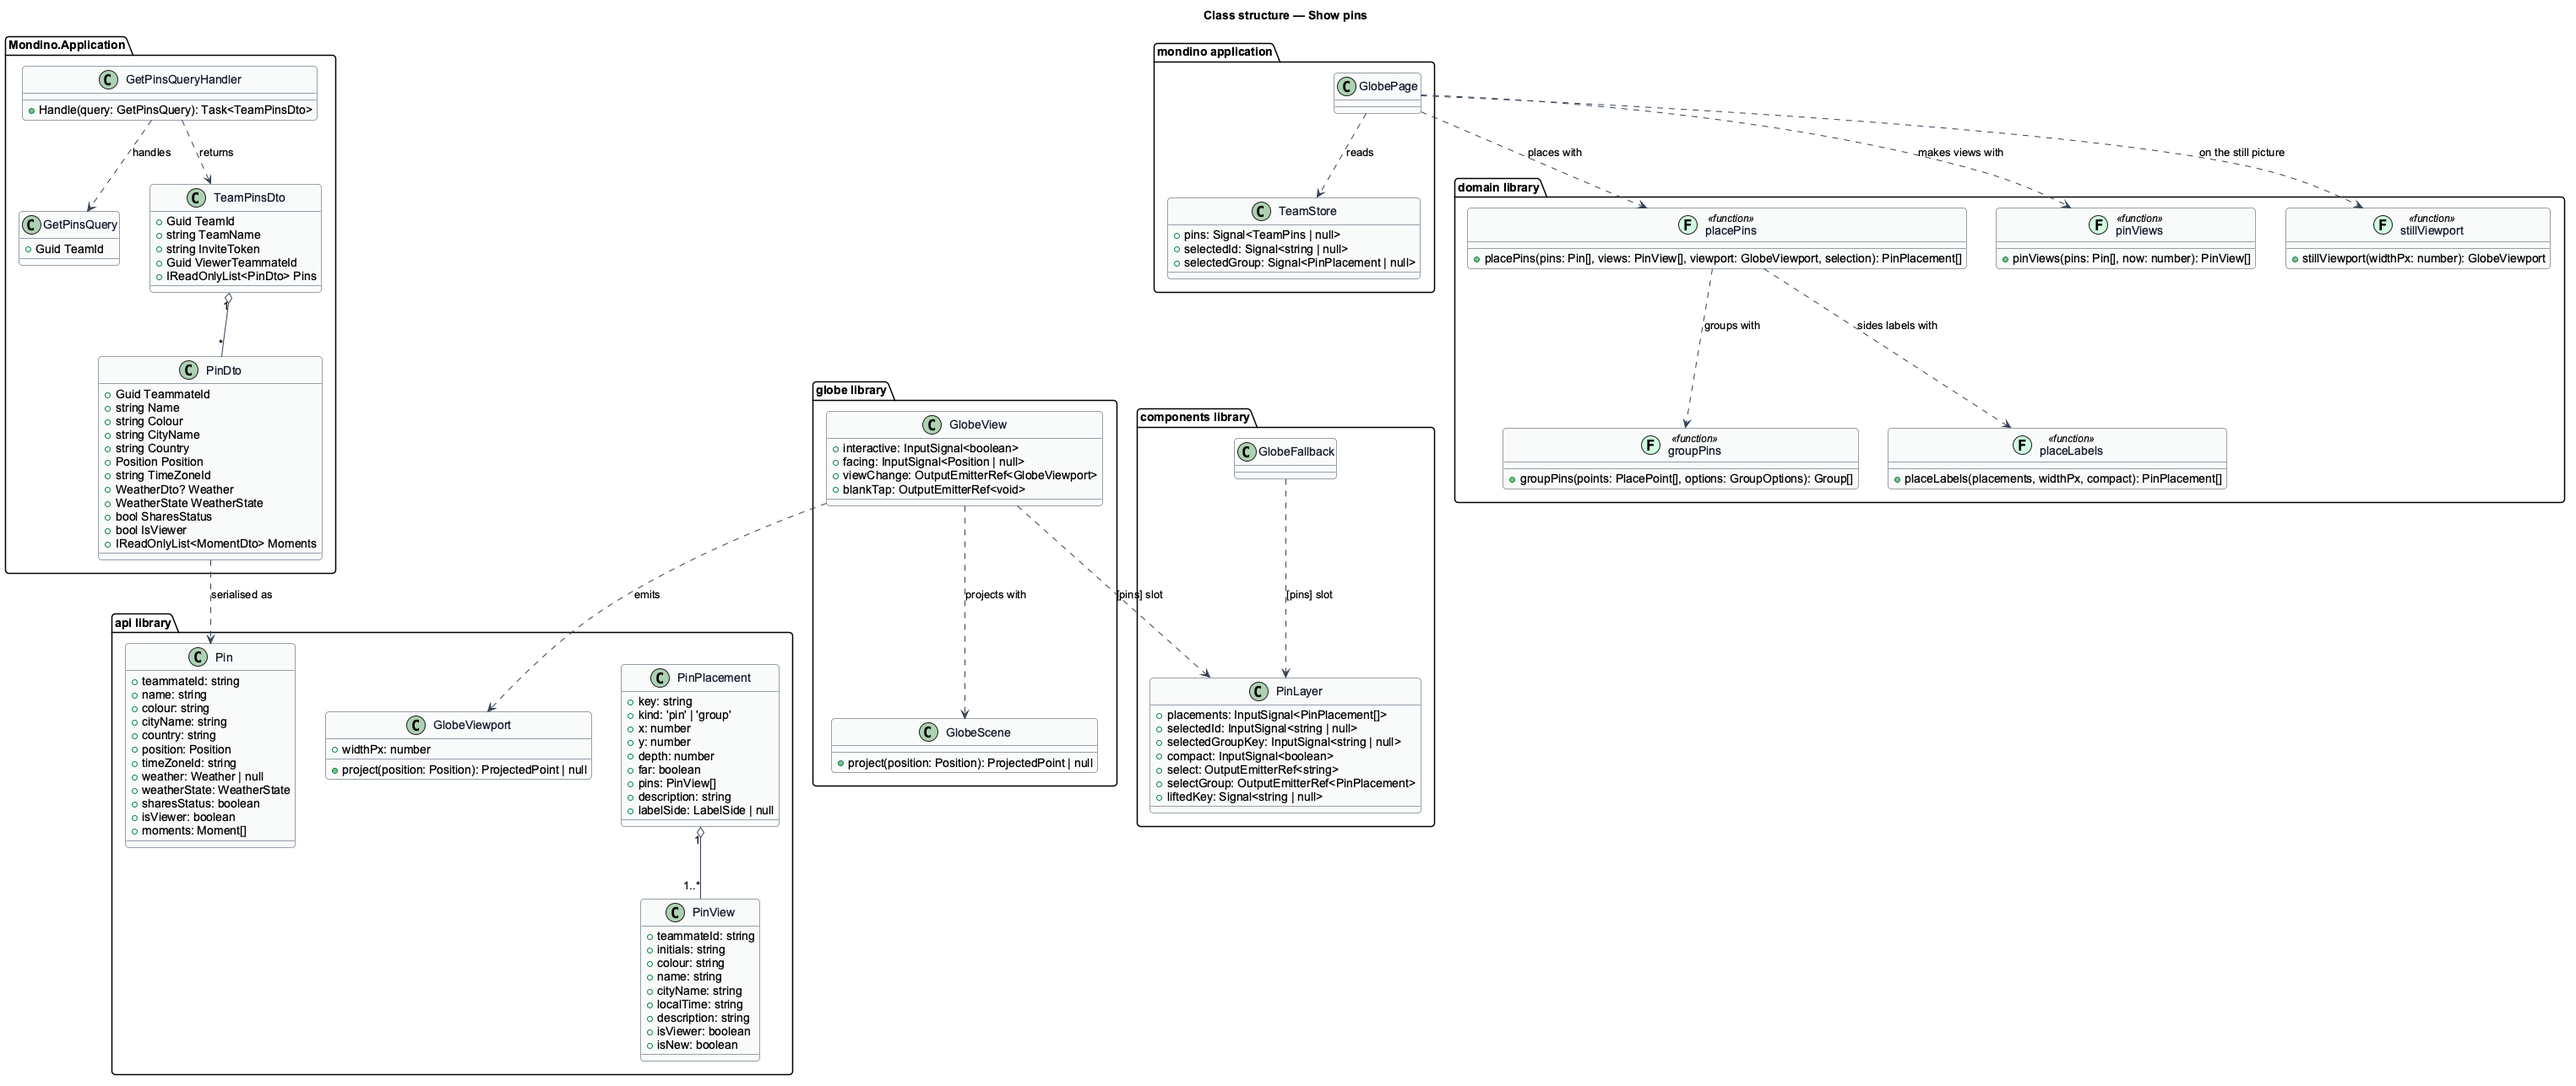
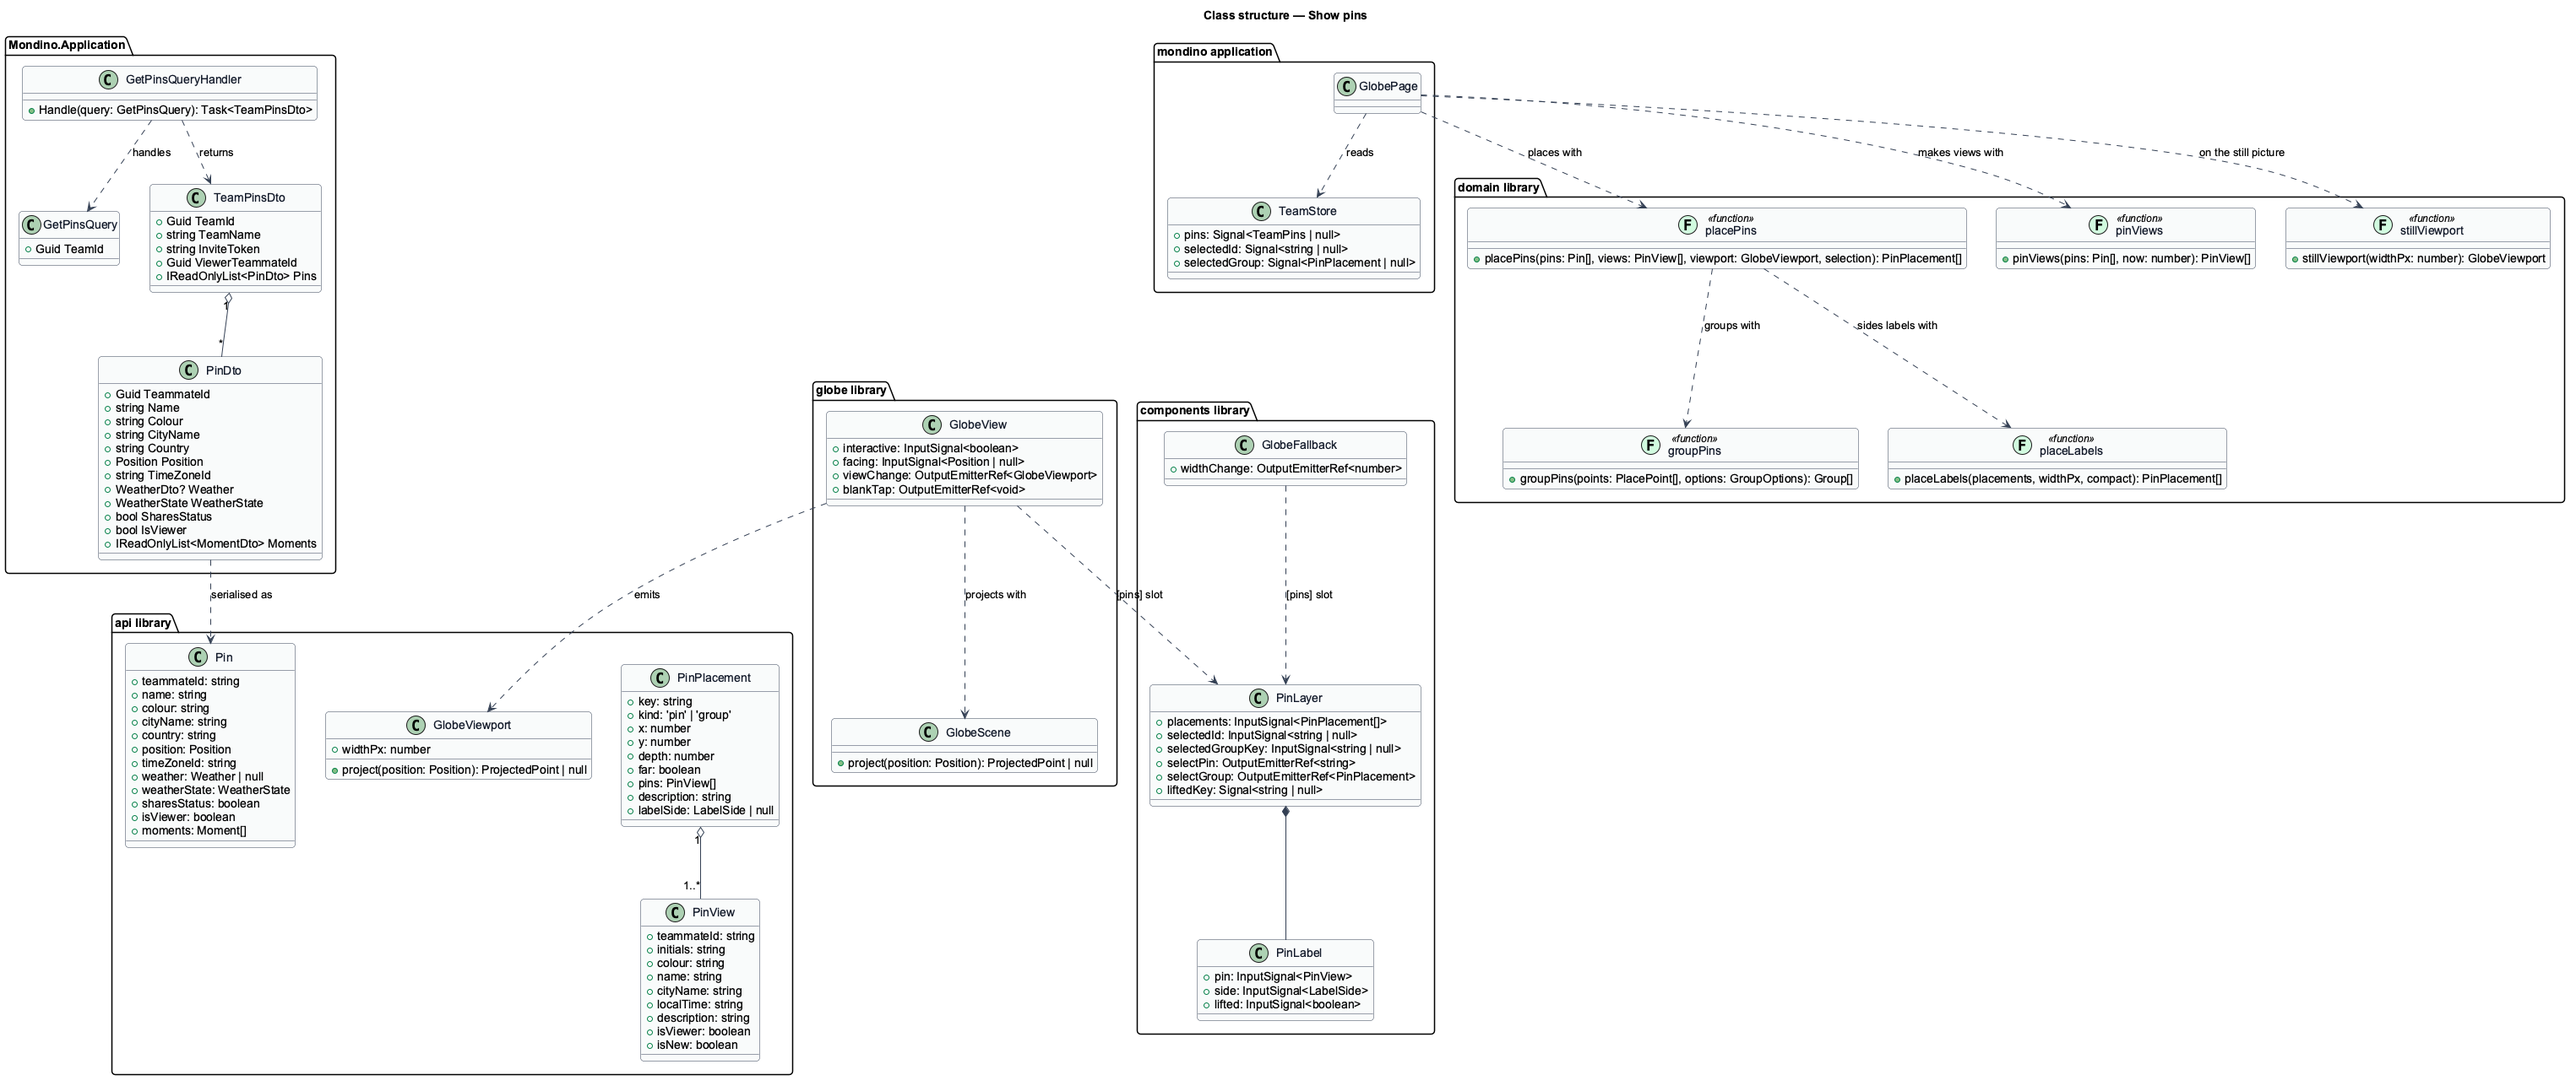
Align ADR 0014 and the show-pins design with the names built
PinLayer emits selectPin (an output cannot be named after a DOM event),
labels are drawn by PinLabel, GlobeFallback reports its width, and the
ADR records what the pins cost the initial chunk.

Changed region(s): [[0.4361, 0.6216, 0.5607, 0.777], [0.4672, 0.8702, 0.5295, 0.9635], [0.4361, 0.373, 0.5607, 0.4351]]

diff --git a/docs/adr/0014-drawing-the-pins.md b/docs/adr/0014-drawing-the-pins.md
@@ -20,12 +20,13 @@ in `components`, would need a second pin layer of its own, the same markup and s
 
 ## Decision
 
-- **One `PinLayer`, in `components`.** It is presentation: it takes the placements, the
-  selected teammate and group, whether the globe is compact, and emits `select` and
-  `selectGroup`. It draws the mocks' `ul.globe__pins > li.globe__pin > button.pin` with each
-  pin's label, and holds which pin the pointer or the keyboard has lifted. `GlobeView` and
-  `GlobeFallback` each take it through a content slot (`[pins]`), so the 3D globe and the still
-  picture draw the same pins.
+- **One `PinLayer`, in `components`.** It is presentation: it takes the placements and the
+  selected teammate and group, and emits `selectPin` and `selectGroup`; whether the globe is
+  compact its styles read from the globe's box, the `globe` container. It draws the mocks'
+  `ul.globe__pins > li.globe__pin > button.pin` with each pin's label (`PinLabel`, the design
+  system's `pin-label`), and holds which pin the pointer or the keyboard has lifted.
+  `GlobeView` and `GlobeFallback` each take it through a content slot (`[pins]`), so the 3D
+  globe and the still picture draw the same pins.
 - **`GlobeView` says where things are; the page places them.** `GlobeView` emits `viewChange`,
   a `GlobeViewport` (`api`): the box's width in CSS px and a `project(position)` that gives a
   position's place in the box, or null on the far side. It emits once the first frame is
@@ -62,6 +63,10 @@ in `components`, would need a second pin layer of its own, the same markup and s
 - **The viewer's own pin is marked by more than colour**: a ring twice as thick
   (`--border-width-pin`) in the ink colour, and "(you)" after the name in its label and in its
   accessible name.
+- **The pins add nothing to the initial chunk.** Measured, a text with two interpolations
+  (`{{ a }} · {{ b }}`) brings `ɵɵtextInterpolate2` into it (0.41 kB) and `@let` its own
+  instructions (0.35 kB); the label's line is one computed string and the templates use no
+  `@let`.
 
 ## Consequences
 
@@ -70,5 +75,5 @@ in `components`, would need a second pin layer of its own, the same markup and s
 - The Angular change detection runs on each frame in which the globe turns, for the pin
   elements alone, which are bounded by the globe's area rather than by the team (L2-047).
 - The pin and label markup is written once, in `PinLayer`.
-- Journey 14 adds the panels on top of `select` and `selectGroup`; journey 13 adds the weather
+- Journey 14 adds the panels on top of `selectPin` and `selectGroup`; journey 13 adds the weather
   to `PinView`, journey 11 the status, journey 20 the moment markers.

diff --git a/docs/detailed-designs/globe/show-pins/README.md b/docs/detailed-designs/globe/show-pins/README.md
@@ -132,9 +132,10 @@ decides how they are drawn.
 
 - **`PinLayer`** (`mo-pin-layer`) — draws the placements as HTML over the globe, the mocks'
   `ul.globe__pins`, with one `li.globe__pin` for each placement, holding a `button.pin` and,
-  for a pin with a label, its `span.pin-label`. It takes `placements`, `selectedId`,
-  `selectedGroupKey` and `compact`, and emits `select` with a teammate id and `selectGroup`
-  with a placement. The pins it draws are the list a keyboard and a screen reader reach
+  for a pin with a label, its `PinLabel`. It takes `placements`, `selectedId` and
+  `selectedGroupKey`, and emits `selectPin` with a teammate id and `selectGroup` with a
+  placement (an output cannot be named `select`, a DOM event). Whether the globe is compact
+  is read by the styles, from the globe's box as the `globe` container. The pins it draws are the list a keyboard and a screen reader reach
   (L2-040): a button's accessible name is its pin's `description`, it carries `aria-pressed`,
   which is true while its pin or group is selected, and the visible label beside it is
   `aria-hidden`. Each is a Tab stop; Enter or Space, or a click or a tap, selects it. A pin's
@@ -145,7 +146,11 @@ decides how they are drawn.
   list, so it takes no focus; its teammate is reached through the panel and the Team screen. A
   far placement (`globe__pin--far`) is drawn fainter and without its label until it is
   lifted. The viewer's own pin carries `pin--you`, a new pin `pin--new`.
-- **`GlobeFallback`** — takes the same `[pins]` slot over the still picture.
+- **`PinLabel`** (`mo-pin-label`, block `pin-label`) — the label beside a pin: at rest its
+  local time (`pin-label--right`, `--left`, `--below` or `--above`); lifted
+  (`pin-label--lifted`), the name and city over the local time. It is `aria-hidden`.
+- **`GlobeFallback`** — takes the same `[pins]` slot over the still picture, and emits
+  `widthChange` with its box's width, which `stillViewport` needs.
 
 **In the `mondino` application**
 
